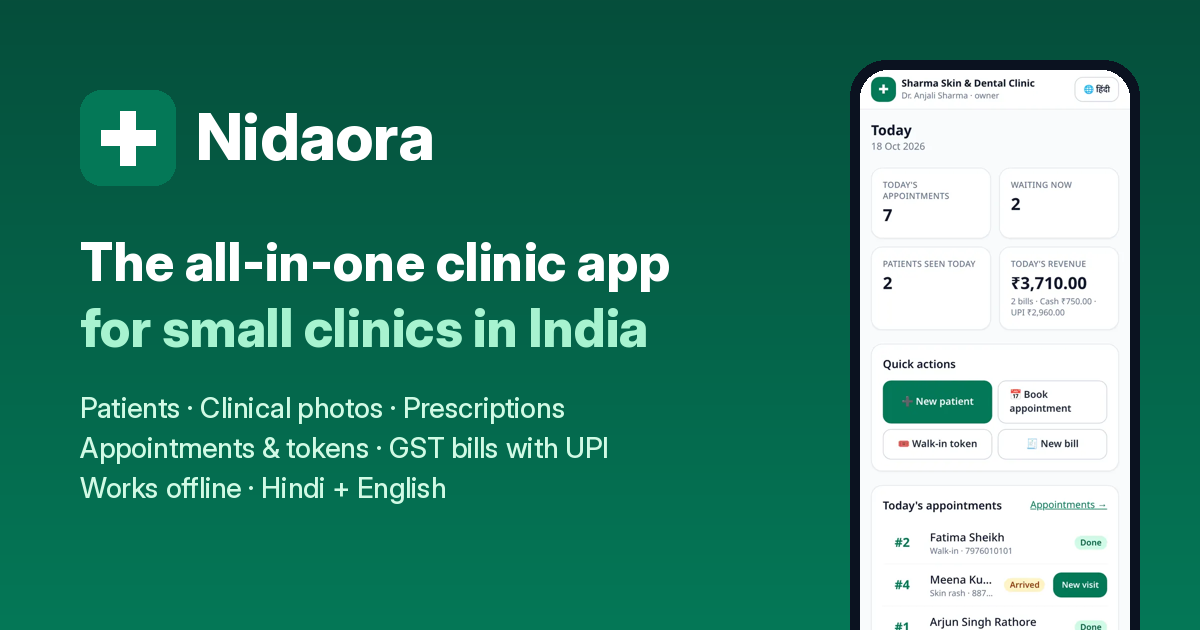
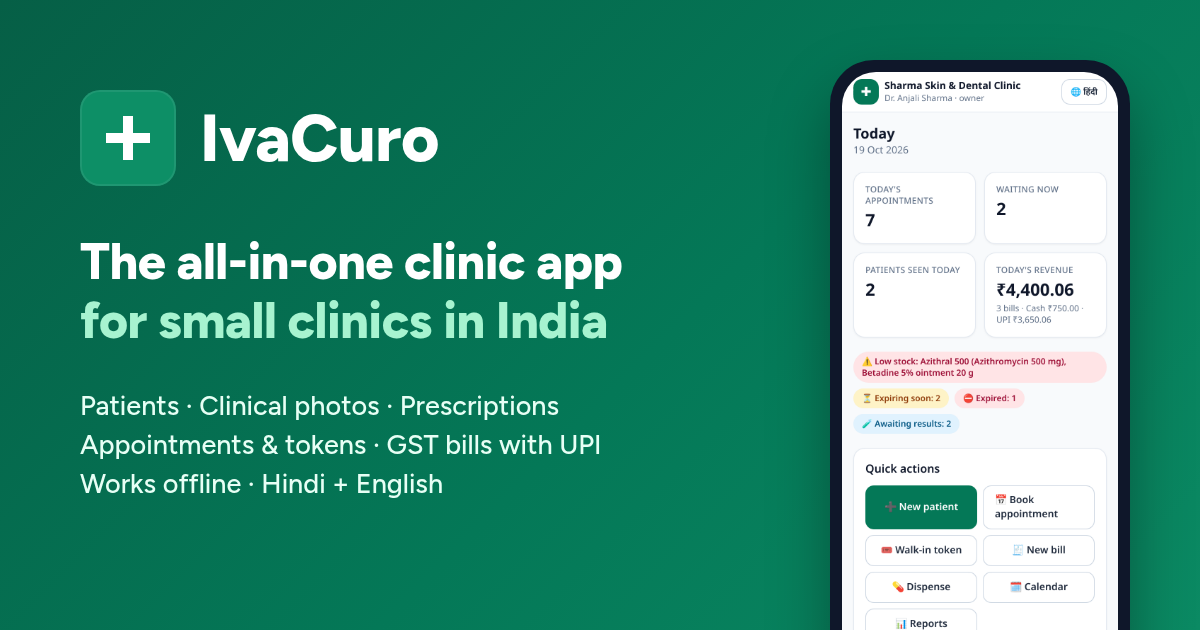
Rebrand Nidaora to IvaCuro

diff --git a/index.html b/index.html
@@ -3,21 +3,21 @@
 <head>
 <meta charset="utf-8">
 <meta name="viewport" content="width=device-width, initial-scale=1">
-<title>Nidaora – All-in-one clinic app for small clinics in India</title>
-<meta name="description" content="Nidaora is a simple clinic management app for Indian doctors: patient records, clinical photos, prescriptions, appointments with tokens, GST billing with UPI, WhatsApp reminders. Works offline, in Hindi and English. Free plan available.">
+<title>IvaCuro – All-in-one clinic app for small clinics in India</title>
+<meta name="description" content="IvaCuro is a simple clinic management app for Indian doctors: patient records, clinical photos, prescriptions, appointments with tokens, GST billing with UPI, WhatsApp reminders. Works offline, in Hindi and English. Free plan available.">
 <meta name="keywords" content="clinic management software India, clinic app, OPD software, prescription software, GST billing clinic, dermatology clinic software, dental clinic software, Hindi clinic app">
 <meta name="theme-color" content="#047857">
 <link rel="canonical" href="https://2100preet.github.io/nidaora-site/">
 <meta property="og:type" content="website">
-<meta property="og:site_name" content="Nidaora">
-<meta property="og:title" content="Nidaora – the all-in-one clinic app for small clinics in India">
+<meta property="og:site_name" content="IvaCuro">
+<meta property="og:title" content="IvaCuro – the all-in-one clinic app for small clinics in India">
 <meta property="og:description" content="Patients, clinical photos, prescriptions, appointments & tokens, GST billing with UPI, WhatsApp reminders. Works offline. Hindi + English.">
 <meta property="og:url" content="https://2100preet.github.io/nidaora-site/">
 <meta property="og:image" content="https://2100preet.github.io/nidaora-site/assets/img/og-image.png">
 <meta property="og:image:width" content="1200"><meta property="og:image:height" content="630">
 <meta property="og:locale" content="en_IN"><meta property="og:locale:alternate" content="hi_IN">
 <meta name="twitter:card" content="summary_large_image">
-<meta name="twitter:title" content="Nidaora – the all-in-one clinic app for small clinics in India">
+<meta name="twitter:title" content="IvaCuro – the all-in-one clinic app for small clinics in India">
 <meta name="twitter:description" content="Patients, photos, prescriptions, tokens, GST billing with UPI. Works offline. Hindi + English.">
 <meta name="twitter:image" content="https://2100preet.github.io/nidaora-site/assets/img/og-image.png">
 <link rel="icon" href="assets/img/favicon.svg" type="image/svg+xml">
@@ -26,17 +26,17 @@
 <link rel="preload" as="image" href="assets/img/dashboard-desktop.webp" fetchpriority="high">
 <link rel="stylesheet" href="assets/style.css">
 <script type="application/ld+json">
-{"@context":"https://schema.org","@type":"SoftwareApplication","name":"Nidaora","applicationCategory":"MedicalApplication","operatingSystem":"Web, Android, iOS, Windows, macOS (installable web app)","description":"All-in-one clinic management app for small clinics in India: patients, clinical photos, visits, prescriptions, appointments and tokens, GST billing with UPI, WhatsApp reminders, offline mode, Hindi and English.","inLanguage":["en-IN","hi-IN"],"offers":[{"@type":"Offer","name":"Free","price":"0","priceCurrency":"INR"},{"@type":"Offer","name":"Solo","price":"599","priceCurrency":"INR"},{"@type":"Offer","name":"Clinic","price":"1499","priceCurrency":"INR"},{"@type":"Offer","name":"Polyclinic","price":"2999","priceCurrency":"INR"},{"@type":"Offer","name":"Small Hospital","price":"7999","priceCurrency":"INR"}]}
+{"@context":"https://schema.org","@type":"SoftwareApplication","name":"IvaCuro","applicationCategory":"MedicalApplication","operatingSystem":"Web, Android, iOS, Windows, macOS (installable web app)","description":"All-in-one clinic management app for small clinics in India: patients, clinical photos, visits, prescriptions, appointments and tokens, GST billing with UPI, WhatsApp reminders, offline mode, Hindi and English.","inLanguage":["en-IN","hi-IN"],"offers":[{"@type":"Offer","name":"Free","price":"0","priceCurrency":"INR"},{"@type":"Offer","name":"Solo","price":"599","priceCurrency":"INR"},{"@type":"Offer","name":"Clinic","price":"1499","priceCurrency":"INR"},{"@type":"Offer","name":"Polyclinic","price":"2999","priceCurrency":"INR"},{"@type":"Offer","name":"Small Hospital","price":"7999","priceCurrency":"INR"}]}
 </script>
 </head>
 <body>
 <a class="skip" href="#main">Skip to content</a>
 <header class="hd">
   <div class="wrap">
-    <a class="logo" href="#top" aria-label="Nidaora home"><img src="assets/img/favicon.svg" alt="" width="34" height="34">Nidaora</a>
+    <a class="logo" href="#top" aria-label="IvaCuro home"><img src="assets/img/favicon.svg" alt="" width="34" height="34">IvaCuro</a>
     <nav class="nav" aria-label="Main">
       <a href="#features" data-hi="सुविधाएँ">Features</a>
-      <a href="#why" data-hi="क्यों Nidaora">Why Nidaora</a>
+      <a href="#why" data-hi="क्यों IvaCuro">Why IvaCuro</a>
       <a href="#pricing" data-hi="कीमत">Pricing</a>
       <a href="#faq" data-hi="सवाल-जवाब">FAQ</a>
     </nav>
@@ -67,8 +67,8 @@
       </ul>
     </div>
     <div class="shots">
-      <img class="desk" src="assets/img/dashboard-desktop.webp" width="1200" height="791" alt="Nidaora dashboard on a computer showing today's appointments, patients waiting and revenue by payment mode" fetchpriority="high">
-      <div class="phone"><img src="assets/img/dashboard-mobile.webp" width="540" height="1169" alt="Nidaora on a mobile phone: today's summary and quick actions"></div>
+      <img class="desk" src="assets/img/dashboard-desktop.webp" width="1200" height="791" alt="IvaCuro dashboard on a computer showing today's appointments, patients waiting and revenue by payment mode" fetchpriority="high">
+      <div class="phone"><img src="assets/img/dashboard-mobile.webp" width="540" height="1169" alt="IvaCuro on a mobile phone: today's summary and quick actions"></div>
     </div>
   </div>
 </section>
@@ -158,7 +158,7 @@
         <div>
           <span class="tag">Offline + Hindi</span>
           <h3 data-hi="नेट जाए तो भी काम चलता रहे — हिंदी में भी">Keeps working when the internet drops, in Hindi too</h3>
-          <p>Install Nidaora on the phone or the desk computer like an app. If the connection drops, reception can still register patients and book tokens. Everything syncs automatically when the internet is back, with no duplicates.</p>
+          <p>Install IvaCuro on the phone or the desk computer like an app. If the connection drops, reception can still register patients and book tokens. Everything syncs automatically when the internet is back, with no duplicates.</p>
           <ul>
             <li>Installable app, with no Play Store needed</li>
             <li>Hindi and English with one tap</li>
@@ -166,7 +166,7 @@
         </div>
         <div class="f-img">
           <img class="m" src="assets/img/offline-queue-mobile.webp" width="540" height="1169" loading="lazy" alt="Offline mode with patients waiting to sync">
-          <img class="m" src="assets/img/dashboard-hindi-mobile.webp" width="540" height="1169" loading="lazy" alt="Nidaora dashboard in Hindi">
+          <img class="m" src="assets/img/dashboard-hindi-mobile.webp" width="540" height="1169" loading="lazy" alt="IvaCuro dashboard in Hindi">
         </div>
       </article>
     </div>
@@ -183,7 +183,7 @@
 <section class="alt" id="why">
   <div class="wrap">
     <div class="sh">
-      <span class="eyebrow" data-hi="क्यों Nidaora">Why Nidaora</span>
+      <span class="eyebrow" data-hi="क्यों IvaCuro">Why IvaCuro</span>
       <h2 data-hi="छोटे क्लीनिक के लिए बना, बड़े अस्पताल के सॉफ्टवेयर जैसा भारी नहीं">Made for small clinics, not a cut-down hospital system</h2>
     </div>
     <div class="why">
@@ -237,10 +237,10 @@
   <div class="wrap">
     <div class="sh"><span class="eyebrow" data-hi="सवाल-जवाब">FAQ</span><h2 data-hi="अक्सर पूछे जाने वाले सवाल">Frequently asked questions</h2></div>
     <div class="faq">
-      <details><summary>Do I need to install anything?</summary><p>No. Nidaora runs in the browser on any phone, tablet or computer. You can also "install" it to the home screen so it opens like an app, with no Play Store needed.</p></details>
+      <details><summary>Do I need to install anything?</summary><p>No. IvaCuro runs in the browser on any phone, tablet or computer. You can also "install" it to the home screen so it opens like an app, with no Play Store needed.</p></details>
       <details><summary>What happens when the internet goes down?</summary><p>Reception keeps working. New patients, appointments, tokens and status changes are saved on the device and sync automatically when the connection returns. Photo uploads, prescriptions and bills need internet.</p></details>
-      <details><summary>Is my patients' data safe? Where is it stored?</summary><p>Each clinic's data is kept completely separate and protected by role-based access, an audit log and optional 2-step login. Production data is stored on India-region servers with daily backups. Photos are only shown to logged-in staff of your clinic. Even Nidaora's platform admins cannot open patient records or photos.</p></details>
-      <details><summary>Is it compliant with the DPDP Act?</summary><p>Nidaora records patient consent purpose by purpose (treatment, photos, WhatsApp reminders, teaching, publicity), keeps the withdrawal history, supports guardian consent for minors and logs every access. These are the building blocks the DPDP Act expects. As the data fiduciary, your clinic remains responsible for how it uses the data.</p></details>
+      <details><summary>Is my patients' data safe? Where is it stored?</summary><p>Each clinic's data is kept completely separate and protected by role-based access, an audit log and optional 2-step login. Production data is stored on India-region servers with daily backups. Photos are only shown to logged-in staff of your clinic. Even IvaCuro's platform admins cannot open patient records or photos.</p></details>
+      <details><summary>Is it compliant with the DPDP Act?</summary><p>IvaCuro records patient consent purpose by purpose (treatment, photos, WhatsApp reminders, teaching, publicity), keeps the withdrawal history, supports guardian consent for minors and logs every access. These are the building blocks the DPDP Act expects. As the data fiduciary, your clinic remains responsible for how it uses the data.</p></details>
       <details><summary>Can I use it in Hindi?</summary><p>Yes. Each user can switch between Hindi and English with one tap. More Indian languages are planned.</p></details>
       <details><summary>Does it work with ABHA / ABDM?</summary><p>You can store a patient's ABHA number today. Full ABDM integration (ABHA creation and linking health records) is on our roadmap.</p></details>
       <details><summary>Can I move my existing patient data?</summary><p>Yes. On paid plans we help import your patient list from Excel or another software. Polyclinic and Small Hospital plans include data migration.</p></details>
@@ -254,14 +254,14 @@
     <div class="contact">
       <div>
         <h2 data-hi="फ्री डेमो बुक करें">Book a free demo</h2>
-        <p data-hi="20 मिनट की कॉल में हम आपके क्लिनिक के हिसाब से Nidaora दिखाएँगे और सेटअप में मदद करेंगे।">In a 20-minute call we'll show you Nidaora with your clinic's workflow and help you set it up for free.</p>
+        <p data-hi="20 मिनट की कॉल में हम आपके क्लिनिक के हिसाब से IvaCuro दिखाएँगे और सेटअप में मदद करेंगे।">In a 20-minute call we'll show you IvaCuro with your clinic's workflow and help you set it up for free.</p>
         <div class="cta">
-          <a class="btn btn-p" id="mailBtn" href="mailto:hello@nidaora.in?subject=Nidaora%20demo%20request">✉ <span data-hi="ईमेल करें">Email us</span></a>
+          <a class="btn btn-p" id="mailBtn" href="mailto:hello@ivacuro.in?subject=IvaCuro%20demo%20request">✉ <span data-hi="ईमेल करें">Email us</span></a>
           <a class="btn btn-o" href="https://nidaora.onrender.com/login" target="_blank" rel="noopener">🚀 <span data-hi="लाइव डेमो आज़माएँ">Try live demo</span></a>
           <span class="btn btn-o" aria-disabled="true" title="WhatsApp number coming soon">💬 WhatsApp (coming soon)</span>
         </div>
         <div class="ph">
-          <b>Email:</b> hello@nidaora.in<br>
+          <b>Email:</b> hello@ivacuro.in<br>
           <b>WhatsApp:</b> +91 XXXXX XXXXX
           <small>[PLACEHOLDER: the demo WhatsApp number will be added here soon]</small>
         </div>
@@ -281,7 +281,7 @@
 
 <footer>
   <div class="wrap">
-    <div><b style="color:var(--ink)">Nidaora</b> · All-in-one clinic app for India · © <span id="yr">2026</span></div>
+    <div><b style="color:var(--ink)">IvaCuro</b> · All-in-one clinic app for India · © <span id="yr">2026</span></div>
     <div>Prices in ₹ + 18% GST · <a href="#faq">FAQ</a> · <a href="#demo">Contact</a></div>
   </div>
 </footer>

diff --git a/assets/site.js b/assets/site.js
@@ -1,6 +1,6 @@
-// Nidaora marketing site: Hindi toggle, monthly/yearly pricing, demo-request mailto. No tracking.
+// IvaCuro marketing site: Hindi toggle, monthly/yearly pricing, demo-request mailto. No tracking.
 (function () {
-  var EMAIL = "hello@nidaora.in"; // PLACEHOLDER contact address – update when the real inbox exists
+  var EMAIL = "hello@ivacuro.in"; // PLACEHOLDER contact address – update when the real inbox exists
   var inr = function (n) { return "₹" + Number(n).toLocaleString("en-IN"); };
 
   // ---- Language toggle (main headings + key text) ----
@@ -37,7 +37,7 @@
     e.preventDefault();
     var f = new FormData(e.target);
     var body = "Name: " + f.get("name") + "\nClinic & city: " + f.get("clinic") + "\nType: " + f.get("type") + "\nBest time to call: " + (f.get("time") || "-") + "\n";
-    location.href = "mailto:" + EMAIL + "?subject=" + encodeURIComponent("Nidaora demo request – " + f.get("clinic")) + "&body=" + encodeURIComponent(body);
+    location.href = "mailto:" + EMAIL + "?subject=" + encodeURIComponent("IvaCuro demo request – " + f.get("clinic")) + "&body=" + encodeURIComponent(body);
   });
   document.getElementById("yr").textContent = new Date().getFullYear();
 })();

diff --git a/404.html b/404.html
@@ -1,1 +1,1 @@
-<!doctype html><html lang="en"><head><meta charset="utf-8"><meta name="viewport" content="width=device-width,initial-scale=1"><title>Page not found – Nidaora</title><link rel="icon" href="/nidaora-site/assets/img/favicon.svg"><link rel="stylesheet" href="/nidaora-site/assets/style.css"></head><body><main class="wrap" style="padding:80px 20px;text-align:center"><h1>Page not found</h1><p class="lead" style="margin:0 auto 24px">This page doesn't exist.</p><a class="btn btn-p" href="/nidaora-site/">Go to Nidaora home</a></main></body></html>
+<!doctype html><html lang="en"><head><meta charset="utf-8"><meta name="viewport" content="width=device-width,initial-scale=1"><title>Page not found – IvaCuro</title><link rel="icon" href="/nidaora-site/assets/img/favicon.svg"><link rel="stylesheet" href="/nidaora-site/assets/style.css"></head><body><main class="wrap" style="padding:80px 20px;text-align:center"><h1>Page not found</h1><p class="lead" style="margin:0 auto 24px">This page doesn't exist.</p><a class="btn btn-p" href="/nidaora-site/">Go to IvaCuro home</a></main></body></html>

diff --git a/README.md b/README.md
@@ -1,6 +1,6 @@
-# Nidaora – marketing website
+# IvaCuro – marketing website
 
-Static marketing site for **Nidaora**, the all-in-one clinic management app for small clinics in India.
+Static marketing site for **IvaCuro**, the all-in-one clinic management app for small clinics in India.
 Plain HTML/CSS with a little JavaScript (Hindi toggle, pricing switch, mailto demo form): no build step, no tracking.
 
 Live: https://2100preet.github.io/nidaora-site/
@@ -10,7 +10,7 @@ Live: https://2100preet.github.io/nidaora-site/
 * `assets/img/`: optimised app screenshots (WebP), favicon, OG image
 
 **Placeholders to replace before promoting the site:**
-* the contact email `hello@nidaora.in` (in `index.html` and `assets/site.js`)
+* the contact email `hello@ivacuro.in` (in `index.html` and `assets/site.js`)
 * the WhatsApp number shown as `+91 XXXXX XXXXX`
 
 This repo contains only the public website. The app code lives in a separate private repository.
